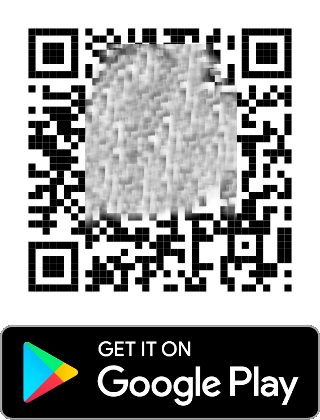
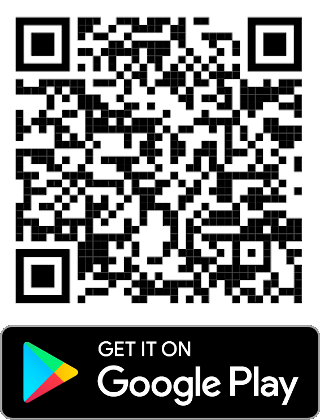
Android App released

diff --git a/docs/getting-started/installation.rst b/docs/getting-started/installation.rst
@@ -1,13 +1,13 @@
 Installation
 ============
 The Fe Tracking App is available for Android 7.0 and later and IOS 9.0 and later.
-The App is currently in beta testing and will soon be offered to Google and Apple for approval. Once the App is approved we will update the download links.
+The App is currently available for Android and is in beta testing for IOS and will soon be offered to Apple for approval. Once the App for IOS is approved we will update the download link.
 
 .. list-table::
 
     * - .. image:: ../_static/images/getting-started/Tracking-Android.png
            :scale: 50%
-           :target: https://play.google.com/store/apps
+           :target: https://play.google.com/store/apps/details?id=nl.fe_data.tracking
       - .. image:: ../_static/images/getting-started/Tracking-IOS.png
            :scale: 50%
            :target: https://apps.apple.com

diff --git a/docs/getting-started/changelog.rst b/docs/getting-started/changelog.rst
@@ -1,6 +1,10 @@
 Changelog
 =========
 
-v1.0 (September 2021)
+v1.0.1 (26 June 2021)
+---------------------
+* Privacy policy updated
+
+v1.0.0 (25 June 2021)
 ---------------------
 * First release

diff --git a/docs/getting-started/settings.rst b/docs/getting-started/settings.rst
@@ -61,3 +61,5 @@ Reset App
       Reset App screen
    ---
    Reset all settings to their default values. This does not affect existing tracks that have been or will be travelled.
+
+|
